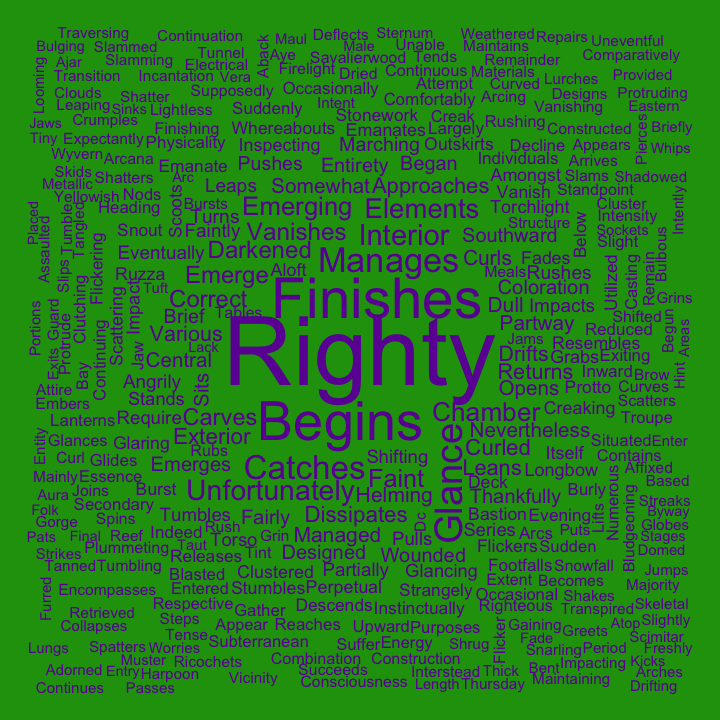
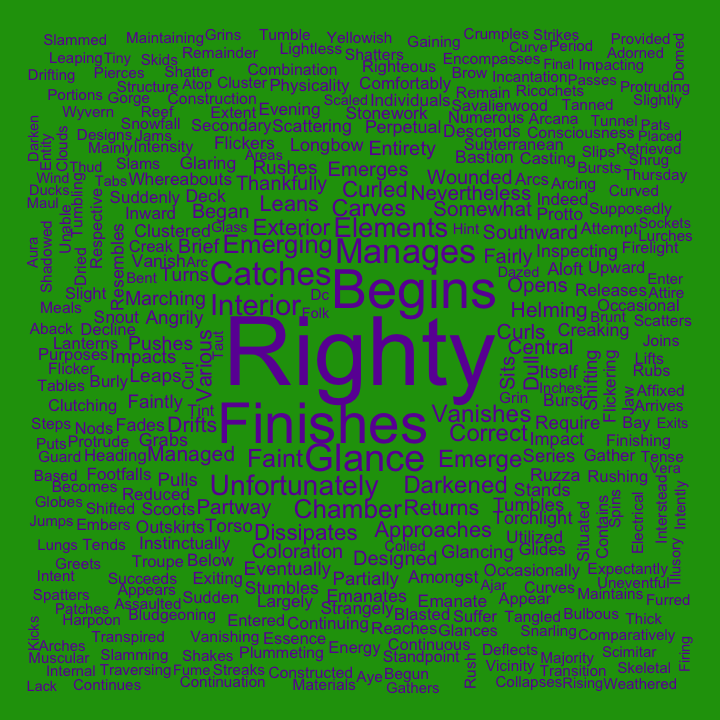
add Rmd to generate md file for C2 wordCloud

diff --git a/docs/wordCloudsC2.md b/docs/wordCloudsC2.md
@@ -1,44 +1,67 @@
 ### Word Clouds for Campaign 2
 
-This analysis compares the frequency words are used by each cast member and compares that to the frequency the word is used by the whole cast to determine how unique words are to each cast member. The more unique a word is to the cast member the larger it will appear in their word cloud. Only dialogue from game play of the main campaign episodes was included.
+This analysis compares the frequency words are used by each cast member
+and compares that to the frequency the word is used by the whole cast to
+determine how unique words are to each cast member. The more unique a
+word is to the cast member the larger it will appear in their word
+cloud. Only dialogue from game play of the main campaign episodes was
+included.
 
 #### Ashley
-![Ashley](https://github.com/KyleOfCanada/CRDialogue/raw/main/plots/wordClouds/C2/C2ASHLEY.png)
+
+![](https://github.com/KyleOfCanada/CRDialogue/raw/main/plots/wordClouds/C2/C2ASHLEY.png)
 
 #### Laura
-![Laura](https://github.com/KyleOfCanada/CRDialogue/raw/main/plots/wordClouds/C2/C2LAURA.png)
+
+![](https://github.com/KyleOfCanada/CRDialogue/raw/main/plots/wordClouds/C2/C2LAURA.png)
 
 #### Liam
-![Liam](https://github.com/KyleOfCanada/CRDialogue/raw/main/plots/wordClouds/C2/C2LIAM.png)
+
+![](https://github.com/KyleOfCanada/CRDialogue/raw/main/plots/wordClouds/C2/C2LIAM.png)
 
 #### Marisha
-![Marisha](https://github.com/KyleOfCanada/CRDialogue/raw/main/plots/wordClouds/C2/C2MARISHA.png)
+
+![](https://github.com/KyleOfCanada/CRDialogue/raw/main/plots/wordClouds/C2/C2MARISHA.png)
 
 #### Matt
-![Matt](https://github.com/KyleOfCanada/CRDialogue/raw/main/plots/wordClouds/C2/C2MATT.png)
+
+![](https://github.com/KyleOfCanada/CRDialogue/raw/main/plots/wordClouds/C2/C2MATT.png)
 
 #### Sam
-![Sam](https://github.com/KyleOfCanada/CRDialogue/raw/main/plots/wordClouds/C2/C2SAM.png)
+
+![](https://github.com/KyleOfCanada/CRDialogue/raw/main/plots/wordClouds/C2/C2SAM.png)
 
 #### Taliesin
-![Taliesin](https://github.com/KyleOfCanada/CRDialogue/raw/main/plots/wordClouds/C2/C2TALIESIN.png)
+
+![](https://github.com/KyleOfCanada/CRDialogue/raw/main/plots/wordClouds/C2/C2TALIESIN.png)
 
 #### Travis
-![Travis](https://github.com/KyleOfCanada/CRDialogue/raw/main/plots/wordClouds/C2/C2TRAVIS.png)
+
+![](https://github.com/KyleOfCanada/CRDialogue/raw/main/plots/wordClouds/C2/C2TRAVIS.png)
 
 #### Fun facts
 
-* So far over 3 million words have been spoken during Campaign 2
-
+-   So far 3,079,787 words have been spoken during Campaign 2
 
 During game play of Campaign 2:
-* Ashley said the fewest words at 69,548; but said 'okay' 1174 times and 'rage' 61 times
-* Laura said 'mama' 71 time
-* Liam said 'cast', 'casts', or 'casting' 431 times
-* Marisha said 'dope' 82 times and 'stunning' 109 times
-* Matt said the most words at 1,191,230; including 'begins' 731 times and 'righty' 698 times
-* Sam said 'traps' 121 times
-* Taliesin said 'suppose' 90 times and 'undead' 89 times
-* Travis said 'blast' or 'blasts' 189 times and 'falchion' 61 times
 
-[Campaign 2 guest word Clouds](https://github.com/KyleOfCanada/CRDialogue/blob/main/docs/wordCloudsGuests.md#word-clouds-for-campaign-2-guests)
+-   Ashley said the fewest words at 69,548; but said ‘okay’ 1,174 times
+    and ‘rage’ 61 times
+
+-   Laura said ‘mama’ 71 times
+
+-   Liam said ‘cast’, ‘casts’, or ‘casting’ 431 times
+
+-   Marisha said ‘dope’ 82 times and ‘stunning’ 109 times
+
+-   Matt said the most words at 1,191,230; including ‘begins’ 731 times
+    and ‘righty’ 698 times
+
+-   Sam said ‘traps’ 121 times
+
+-   Taliesin said ‘suppose’ 90 times and ‘undead’ 89 times
+
+-   Travis said ‘blast’ or ‘blasts’ 189 times and ‘falchion’ 61 times
+
+[Campaign 2 guest word
+Clouds](https://github.com/KyleOfCanada/CRDialogue/blob/main/docs/wordCloudsGuests.md#word-clouds-for-campaign-2-guests)
